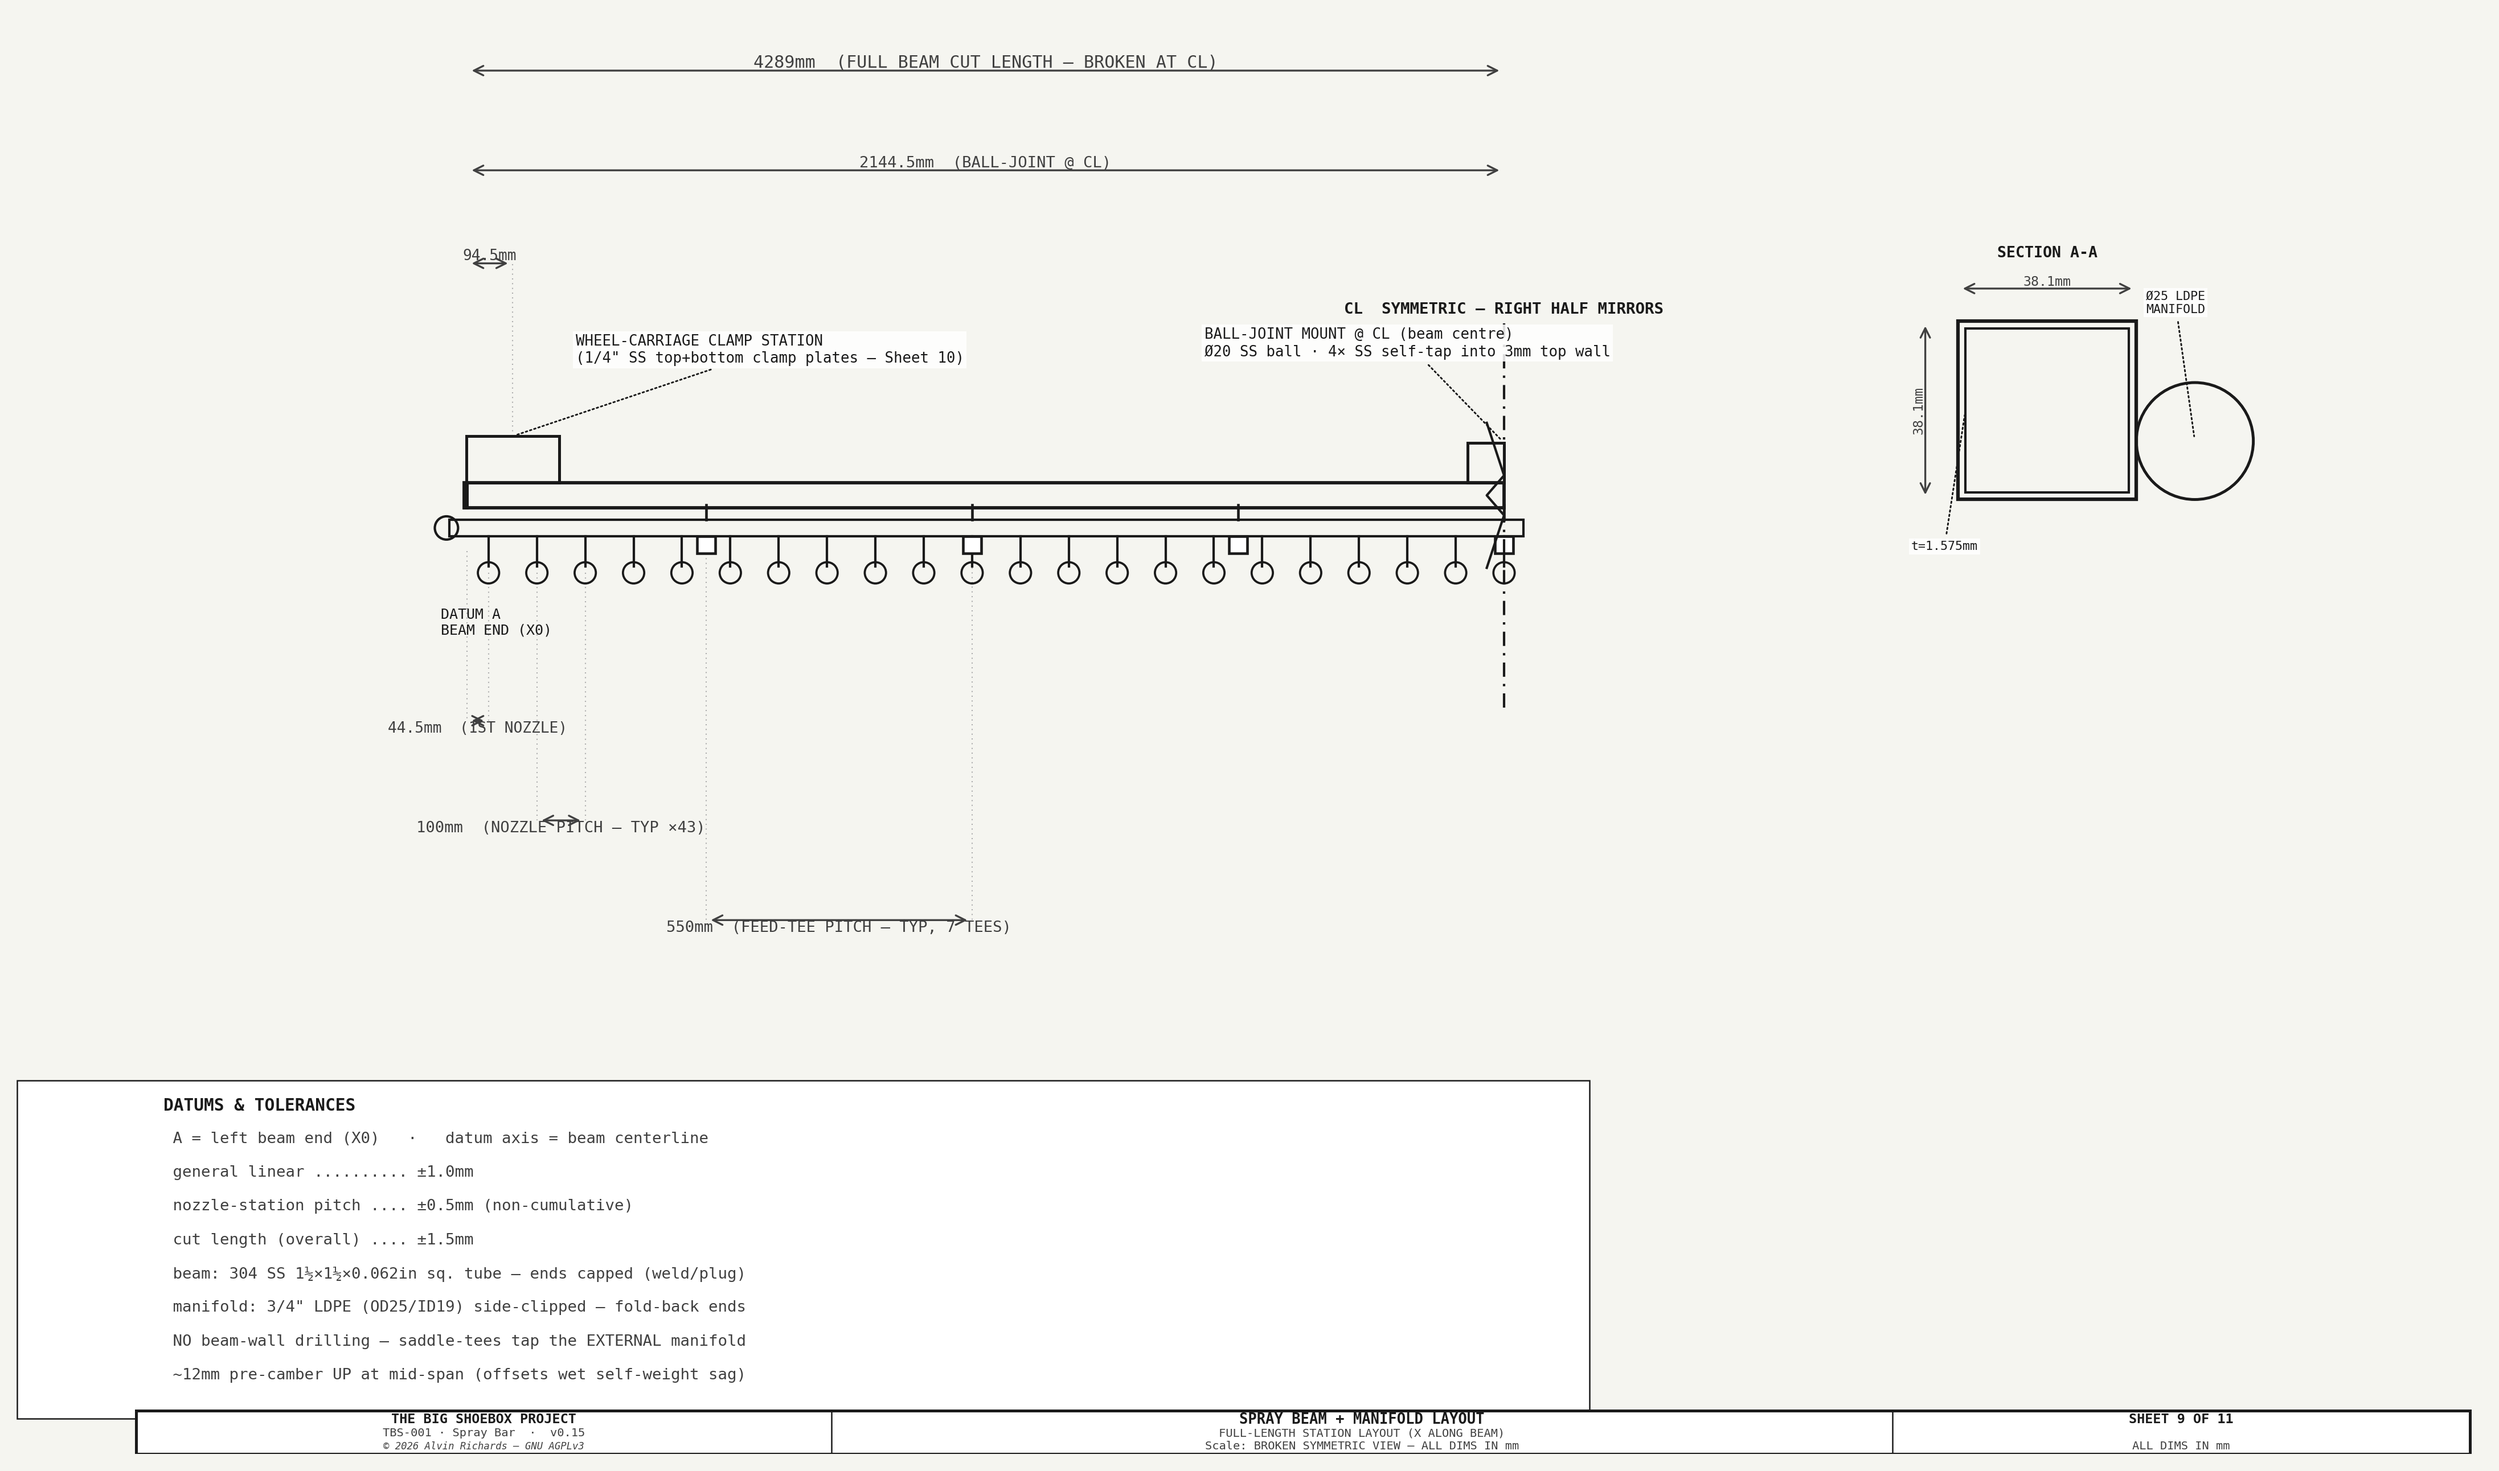
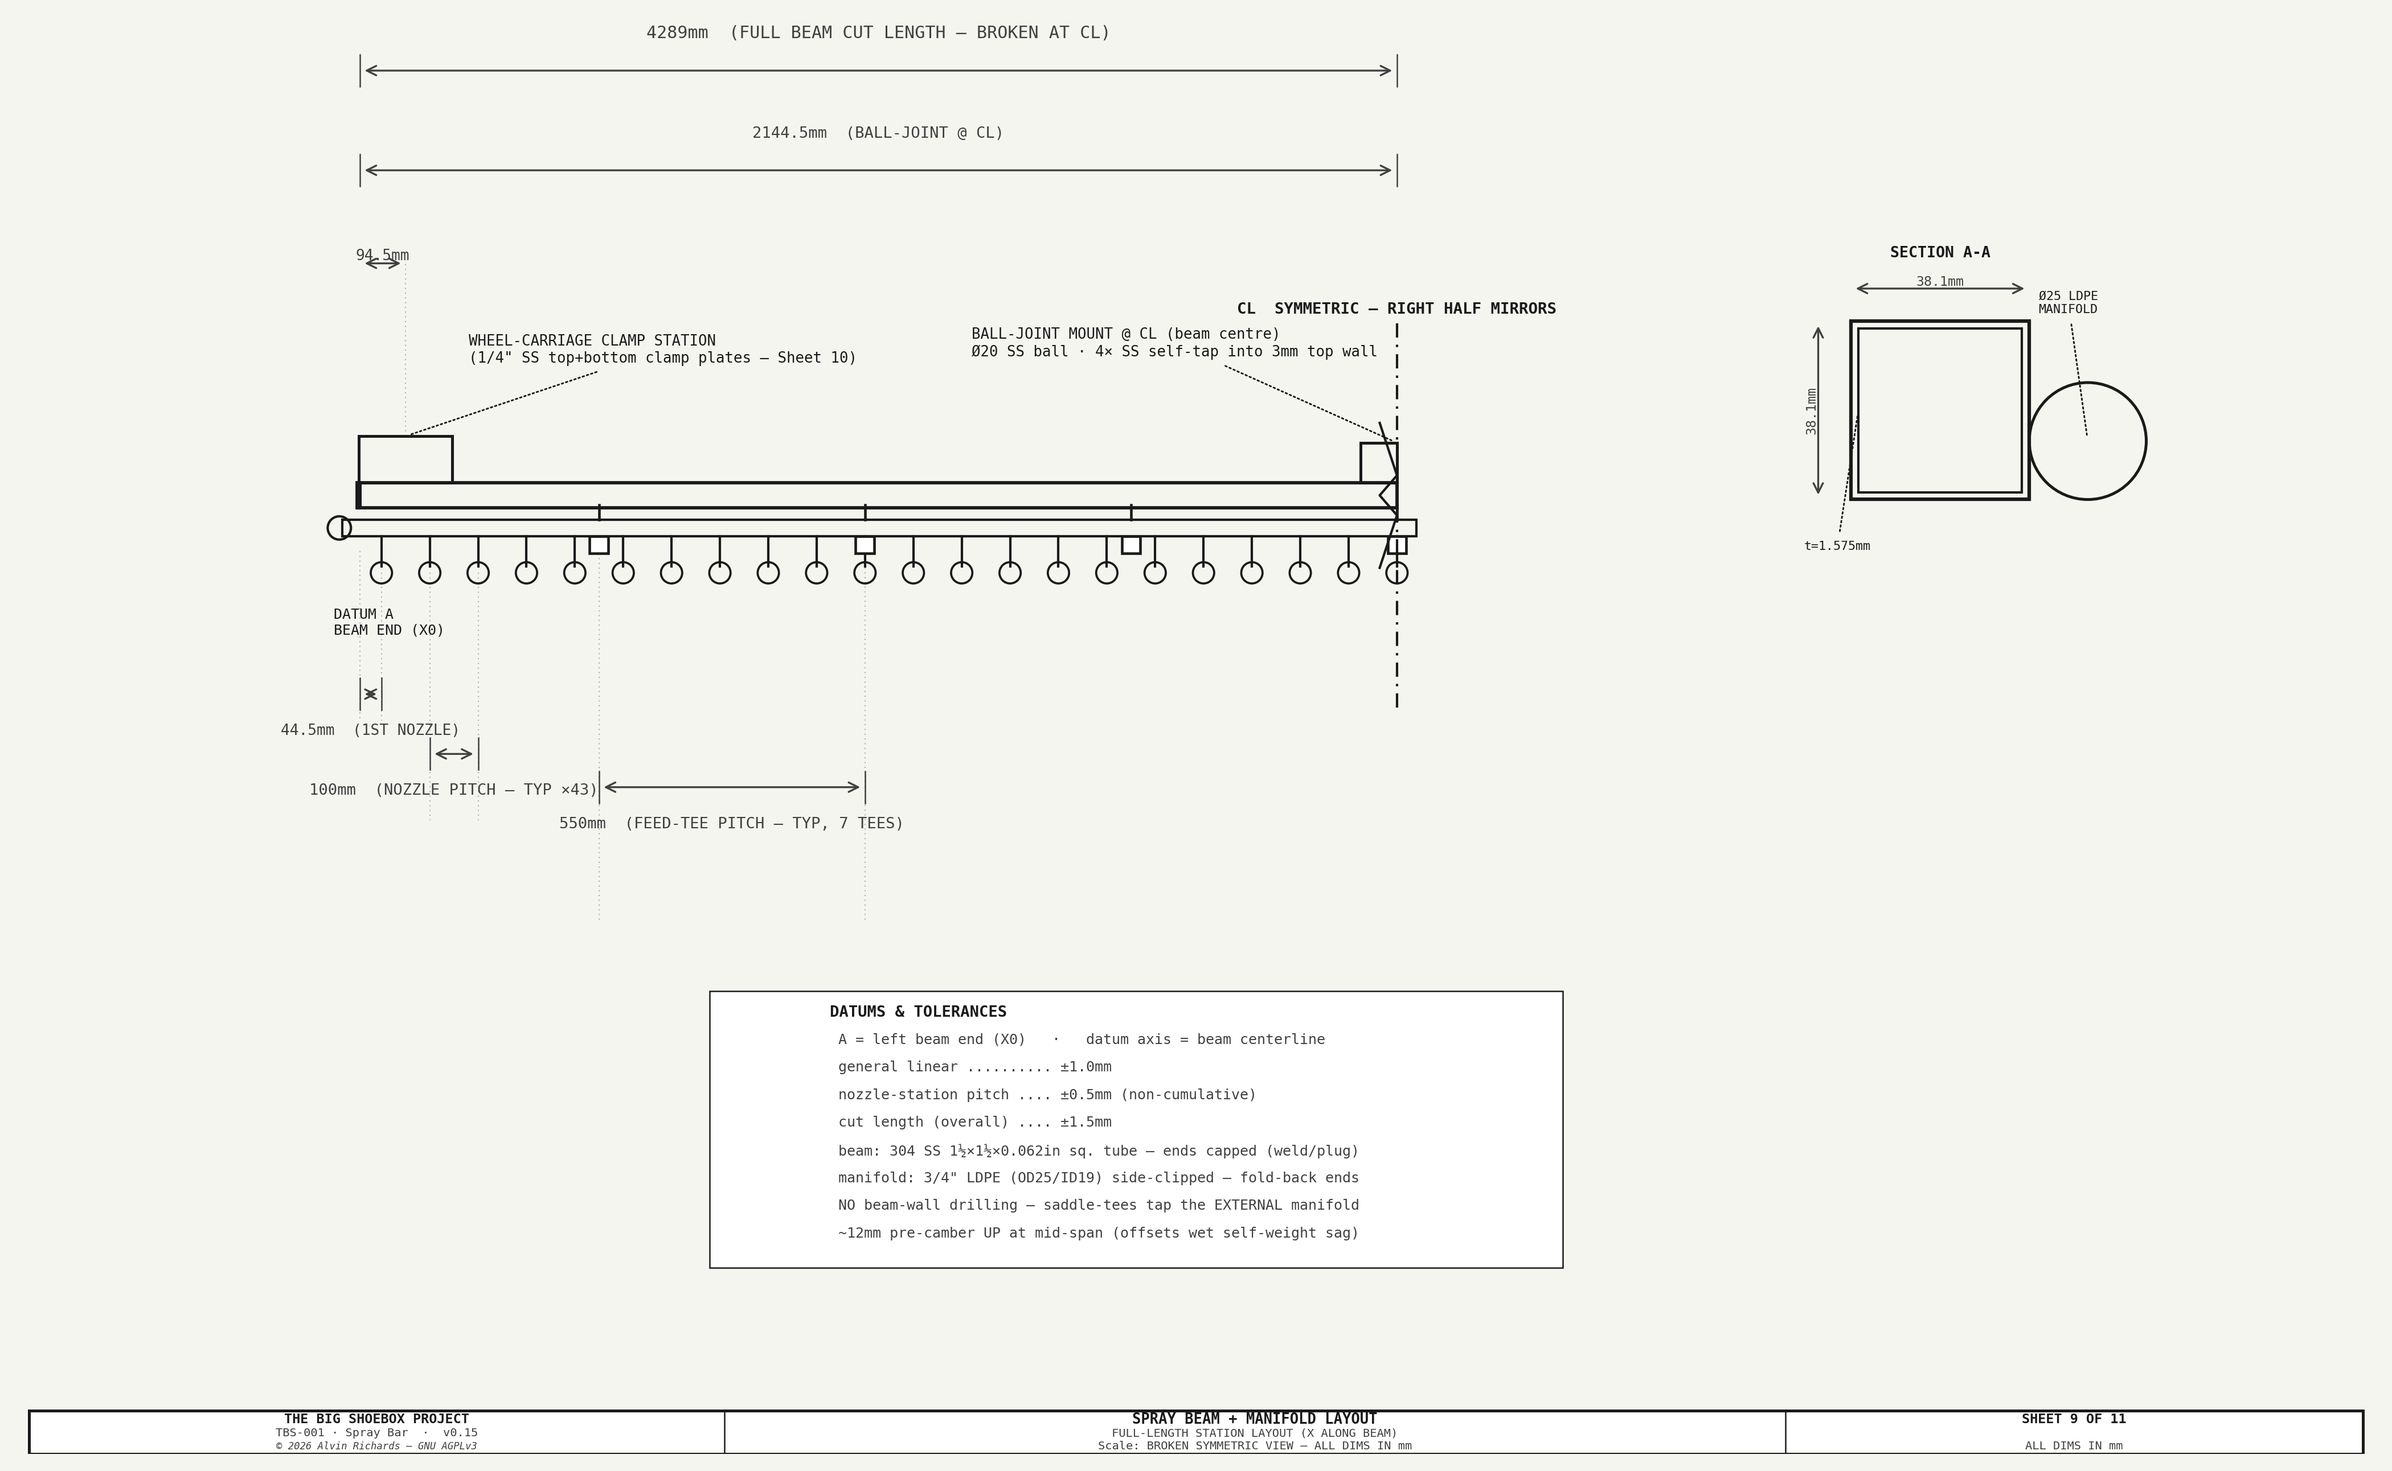
Tidy labels

diff --git a/src/generators/generate_spray_bar_diagram.py b/src/generators/generate_spray_bar_diagram.py
@@ -2281,14 +2281,14 @@ def draw_sheet9():
                            fill=False, ec=C_FRAME, lw=1.2, zorder=8))
     leader(ax, sx(CLAMP_X), sz(bz_top + 70), sx(CLAMP_X + 130), sz(bz_top + 200),
            "WHEEL-CARRIAGE CLAMP STATION\n(1/4\" SS top+bottom clamp plates — Sheet 10)",
-           fs=6.2, color=C_FRAME, font=FONT, bbox=LBL_BG, zorder=15)
+           fs=6.2, color=C_FRAME, font=FONT, zorder=15)
 
     # ── ball-joint mount at the centreline (top face, 4 self-tap screws) ───────
     ax.add_patch(Rectangle((sx(HALF) - sz(55), sz(bz_top)), sz(55), sz(60),
                            fill=False, ec=C_FRAME, lw=1.2, zorder=8))
-    leader(ax, sx(HALF), sz(bz_top + 60), sx(HALF - 620), sz(bz_top + 210),
+    leader(ax, sx(HALF), sz(bz_top + 60), sx(HALF - 880), sz(bz_top + 210),
            "BALL-JOINT MOUNT @ CL (beam centre)\nØ20 SS ball · 4× SS self-tap into 3mm top wall",
-           fs=6.2, color=C_FRAME, font=FONT, bbox=LBL_BG, zorder=15)
+           fs=6.2, color=C_FRAME, font=FONT, zorder=15)
 
     # ── symmetry / break at the centreline ────────────────────────────────────
     ax.plot([sx(HALF), sx(HALF)], [sz(bz_bot - 300), sz(bz_top + 240)],
@@ -2309,25 +2309,25 @@ def draw_sheet9():
     # ── dimensions ────────────────────────────────────────────────────────────
     # overall cut length (full span, broken)
     draw_dim_h(ax, sx(0), sx(HALF), sz(bz_top + 620), f"{SPAN:.0f}mm  (FULL BEAM CUT LENGTH — BROKEN AT CL)",
-               offset=0, fs=7.2, font=FONT, above=True)
+               offset=10, fs=7.2, font=FONT, above=True)
     # ball-joint at centreline
     draw_dim_h(ax, sx(0), sx(HALF), sz(bz_top + 470), f"{HALF:.1f}mm  (BALL-JOINT @ CL)",
-               offset=0, fs=6.5, font=FONT, above=True)
+               offset=10, fs=6.5, font=FONT, above=True)
     # first-nozzle offset from the datum end
     ax.plot([sx(FIRST), sx(FIRST)], [sz(nz - 55), sz(bz_bot - 320)], **WIT)
     ax.plot([sx(0), sx(0)], [sz(bz_bot - 65), sz(bz_bot - 320)], **WIT)
-    draw_dim_h(ax, sx(0), sx(FIRST), sz(bz_bot - 320), f"{FIRST:.1f}mm  (1ST NOZZLE)",
-               offset=0, fs=6.3, font=FONT, above=False)
+    draw_dim_h(ax, sx(0), sx(FIRST), sz(bz_bot - 280), f"{FIRST:.1f}mm  (1ST NOZZLE)",
+               offset=10, fs=6.3, font=FONT, above=False)
     # nozzle pitch — bracket over two pitches, TYP
     ax.plot([sx(FIRST + PITCH), sx(FIRST + PITCH)], [sz(nz - 55), sz(bz_bot - 470)], **WIT)
     ax.plot([sx(FIRST + 2 * PITCH), sx(FIRST + 2 * PITCH)], [sz(nz - 55), sz(bz_bot - 470)], **WIT)
-    draw_dim_h(ax, sx(FIRST + PITCH), sx(FIRST + 2 * PITCH), sz(bz_bot - 470),
-               f"{PITCH:.0f}mm  (NOZZLE PITCH — TYP ×{N})", offset=0, fs=6.5, font=FONT, above=False)
+    draw_dim_h(ax, sx(FIRST + PITCH), sx(FIRST + 2 * PITCH), sz(bz_bot - 370),
+               f"{PITCH:.0f}mm  (NOZZLE PITCH — TYP ×{N})", offset=10, fs=6.5, font=FONT, above=False)
     # feed-tee pitch — TYP
     ax.plot([sx(FEED_FIRST), sx(FEED_FIRST)], [sz(mz - POLY / 2 - 26), sz(bz_bot - 620)], **WIT)
     ax.plot([sx(FEED_FIRST + FEED_PITCH), sx(FEED_FIRST + FEED_PITCH)], [sz(mz - POLY / 2 - 26), sz(bz_bot - 620)], **WIT)
-    draw_dim_h(ax, sx(FEED_FIRST), sx(FEED_FIRST + FEED_PITCH), sz(bz_bot - 620),
-               f"{FEED_PITCH:.0f}mm  (FEED-TEE PITCH — TYP, {N_FEED} TEES)", offset=0, fs=6.5, font=FONT, above=False)
+    draw_dim_h(ax, sx(FEED_FIRST), sx(FEED_FIRST + FEED_PITCH), sz(bz_bot - 420),
+               f"{FEED_PITCH:.0f}mm  (FEED-TEE PITCH — TYP, {N_FEED} TEES)", offset=10, fs=6.5, font=FONT, above=False)
     # carriage-clamp station from datum
     ax.plot([sx(CLAMP_X), sx(CLAMP_X)], [sz(bz_top + 70), sz(bz_top + 330)], **WIT)
     draw_dim_h(ax, sx(0), sx(CLAMP_X), sz(bz_top + 330), f"{CLAMP_X:.1f}mm",
@@ -2344,8 +2344,8 @@ def draw_sheet9():
     draw_dim_h(axs, -BW / 2, BW / 2, BH / 2 + 7, f"{BW:.1f}mm", offset=0, fs=5.6, font=FONT, above=True)
     draw_dim_v(axs, -BW / 2 - 7, -BH / 2, BH / 2, f"{BH:.1f}mm", offset=0, fs=5.6, font=FONT)
     leader(axs, BW / 2 + POLY / 2, -BH / 2 + POLY / 2, BW / 2 + 2, BH / 2 + 4,
-           f"Ø{POLY:.0f} LDPE\nMANIFOLD", fs=5.2, color=C_FRAME, font=FONT, bbox=LBL_BG)
-    leader(axs, -BW / 2 + BT, 0, -BW / 2 - 10, -BH / 2 - 10, f"t={BT:.3f}mm", fs=5.2, color=C_FRAME, font=FONT, bbox=LBL_BG)
+           f"Ø{POLY:.0f} LDPE\nMANIFOLD", fs=5.2, color=C_FRAME, font=FONT)
+    leader(axs, -BW / 2 + BT, 0, -BW / 2 - 10, -BH / 2 - 10, f"t={BT:.3f}mm", fs=5.2, color=C_FRAME, font=FONT)
     axs.text(0, BH / 2 + 13, "SECTION A-A", fontsize=6.4, fontweight="bold", ha="center", va="bottom", color=C_FRAME, **FONT)
 
     # ── datums & tolerances note block ────────────────────────────────────────
@@ -2362,7 +2362,7 @@ def draw_sheet9():
     ]
     axn = fig.add_axes([0.045, 0.045, 0.52, 0.20])
     axn.set_xlim(0, 100); axn.set_ylim(0, 100); axn.axis("off")
-    draw_notes(axn, notes, 2, 96, spacing=11, fs=6.6, font=FONT, width=96)
+    draw_notes(axn, notes, 60, 126, spacing=9, fs=6, font=FONT, width=46)
 
     # ── title block ───────────────────────────────────────────────────────────
     ax_tb = fig.add_axes([0.04, 0.005, 0.92, 0.04])
